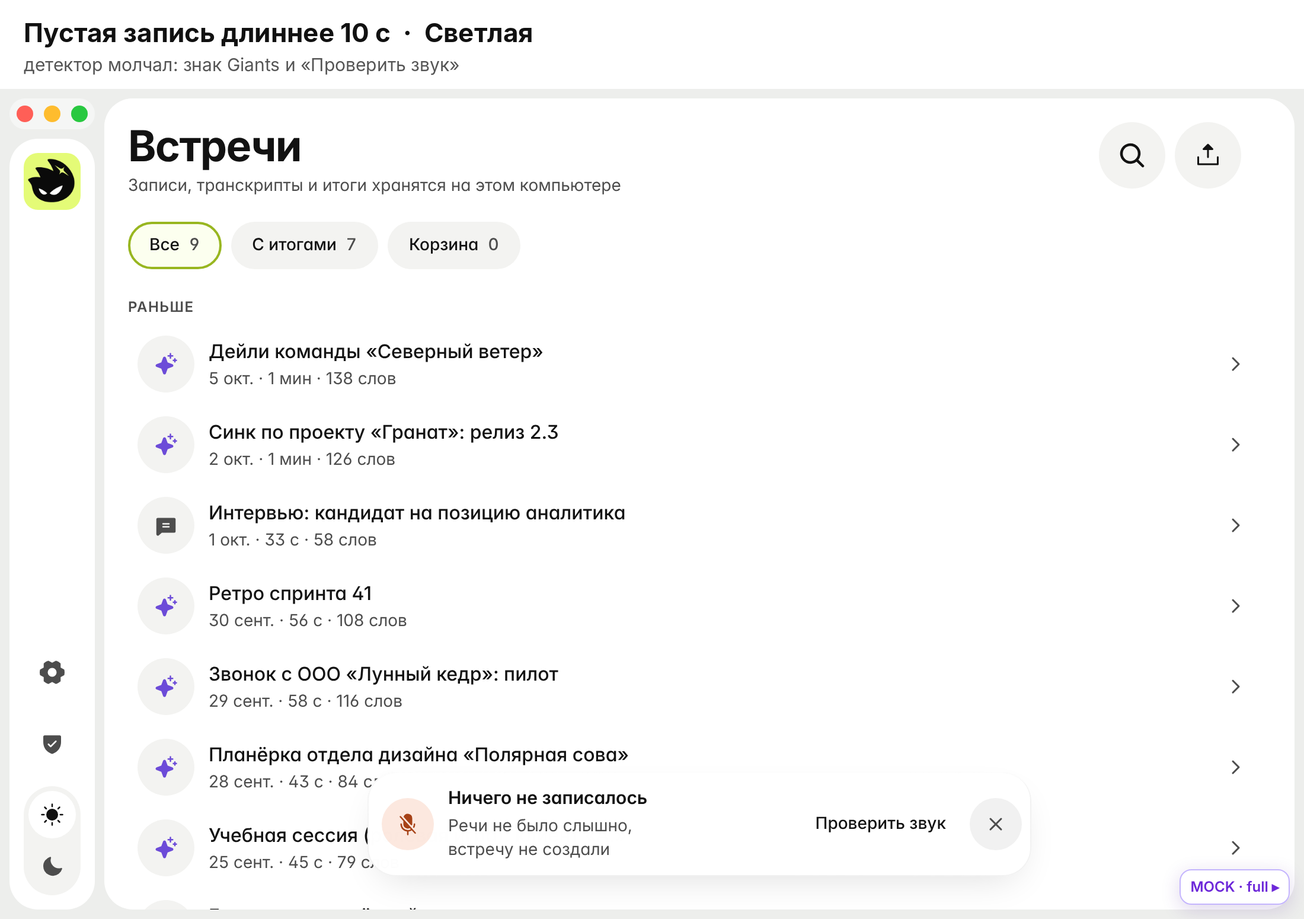
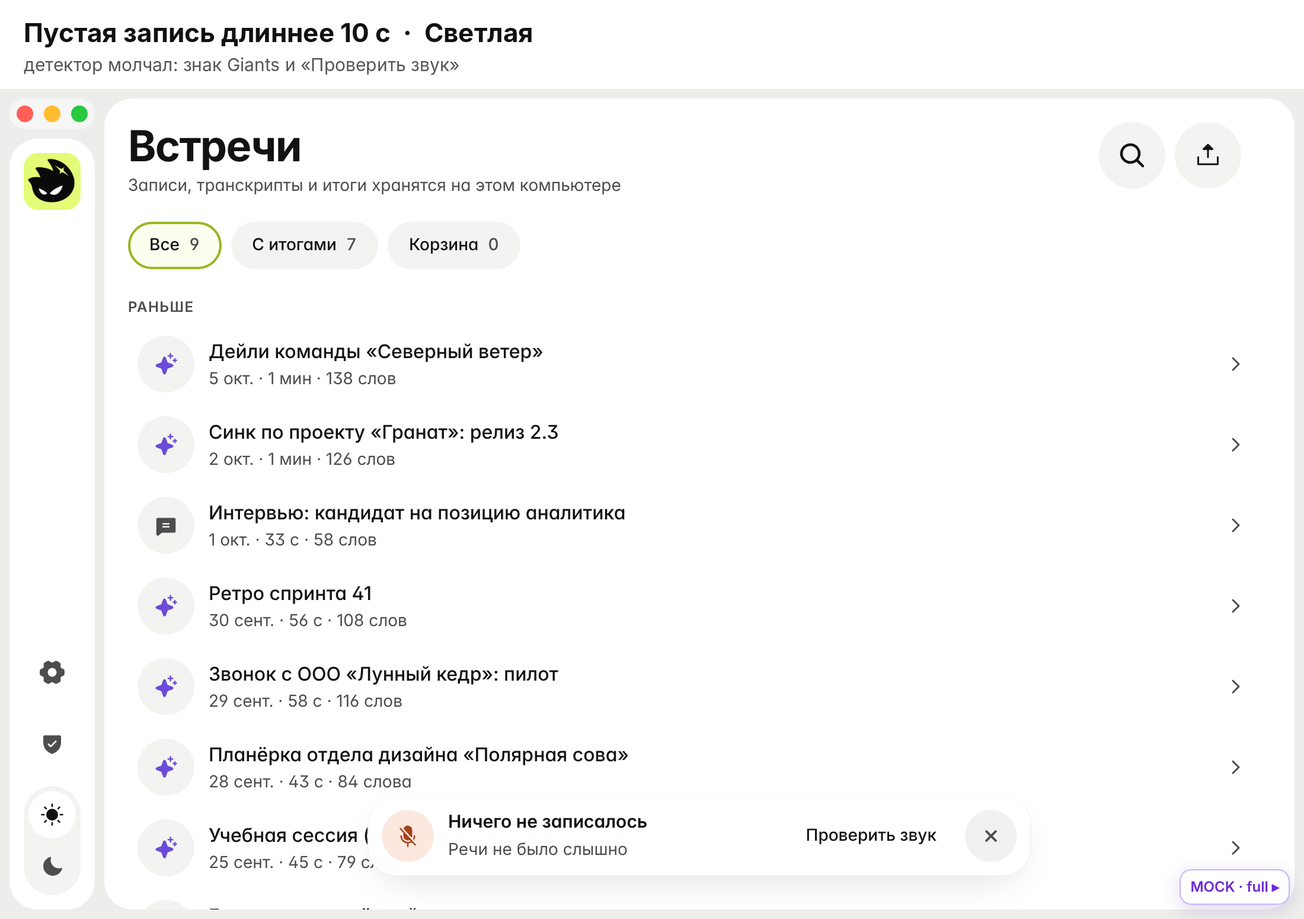
style(aid): один круглый крестик и ровные отступы во всех карточках
- ui/close-button.tsx: общий крестик — круглая кнопка 44 px на лёгкой
  подложке, значок X 14 px серым, bold с чуть более толстым контуром.
- Карточки итога и микрофона, диалоги и уведомления: ровный отступ
  12 px со всех сторон, крестик в углу на том же отступе.
- truncate снова в одну строку: глобальный text-wrap сбрасывал nowrap.
- Подпись «Ничего не записалось» короче: «Речи не было слышно».

Claude-Session: https://claude.ai/code/session_01JzvomxkVSAKv3jjRMmSK11

Changed region(s): [[0.2782, 0.8361, 0.4945, 0.96], [0.6182, 0.8671, 0.7109, 0.929]]

diff --git a/frontend/src/aid/components/RecordDock.tsx b/frontend/src/aid/components/RecordDock.tsx
@@ -21,7 +21,8 @@
 import { Suspense, useEffect, useMemo, useRef, useState } from 'react';
 import Link from 'next/link';
 import { usePathname, useRouter, useSearchParams } from 'next/navigation';
-import { Microphone, MicrophoneSlash, Pause, Play, SpeakerHigh, Stop, Waveform, X } from '@phosphor-icons/react';
+import { Microphone, MicrophoneSlash, Pause, Play, SpeakerHigh, Stop, Waveform } from '@phosphor-icons/react';
+import { CloseButton } from '@/aid/components/ui/close-button';
 import { Button } from '@/aid/components/ui/button';
 import { Spinner } from '@/aid/components/ui/spinner';
 import { Tooltip, TooltipContent, TooltipTrigger } from '@/aid/components/ui/tooltip';
@@ -133,7 +134,7 @@ const COPY = {
  */
 function NoticeCard({ notice }: { notice: DiscardNotice }) {
   return (
-    <div className="aid-glass aid-glass-dense relative w-[min(560px,calc(100vw-8rem))] rounded-tile p-1">
+    <div className="aid-glass aid-glass-dense relative w-[min(560px,calc(100vw-8rem))] rounded-tile p-3">
       <NoticeRow notice={notice} />
     </div>
   );
@@ -172,9 +173,9 @@ function NoticeRow({ notice }: { notice: DiscardNotice }) {
       onPointerLeave={() => hold('hover', false)}
       onFocus={() => hold('focus', true)}
       onBlur={(e) => !e.currentTarget.contains(e.relatedTarget as Node | null) && hold('focus', false)}
-      className="flex w-full min-w-0 items-stretch gap-1"
+      className="flex w-full min-w-0 items-center gap-3"
     >
-      <div className="flex min-h-[60px] min-w-0 flex-1 items-center gap-3 py-2 pl-2 pr-1">
+      <div className="flex min-h-11 min-w-0 flex-1 items-center gap-3">
         {notice.verdict !== 'cancelled' && (
           <span
             className={cn(
@@ -186,7 +187,7 @@ function NoticeRow({ notice }: { notice: DiscardNotice }) {
             {suspectSound ? <MicrophoneSlash /> : <Waveform />}
           </span>
         )}
-        <div className={cn('min-w-0 flex-1', notice.verdict === 'cancelled' && 'pl-2')}>
+        <div className={cn('min-w-0 flex-1', notice.verdict === 'cancelled' && 'pl-1')}>
           <p className="truncate text-[15px] font-semibold leading-5">{t(copy.title)}</p>
           {copy.hint && <p className="mt-1 truncate text-sm leading-5 text-muted-foreground">{t(copy.hint)}</p>}
         </div>
@@ -196,15 +197,8 @@ function NoticeRow({ notice }: { notice: DiscardNotice }) {
           </Button>
         )}
       </div>
-      {/* Крестик: круглая кнопка 44 px по центру по высоте, X bold 16 px серым (залитый нарисован квадратом, CLAUDE.md) */}
-      <button
-        type="button"
-        onClick={notice.dismiss}
-        aria-label={t('close')}
-        className="mr-1 flex size-11 shrink-0 items-center justify-center self-center rounded-full bg-foreground/[0.06] text-muted-foreground transition-colors hover:bg-foreground/[0.12] hover:text-foreground focus-visible:outline-none focus-visible:ring-2 focus-visible:ring-ring"
-      >
-        <X weight="bold" className="size-4" />
-      </button>
+      {/* Крестик: общий CloseButton, на том же отступе 12 px, что и всё содержимое */}
+      <CloseButton label={t('close')} onClick={notice.dismiss} />
       {suspectSound && <SoundCheckDialog open={soundCheck} onOpenChange={setSoundCheck} />}
     </div>
   );

diff --git a/frontend/src/aid/styles/globals.css b/frontend/src/aid/styles/globals.css
@@ -225,7 +225,9 @@
   -webkit-backdrop-filter: blur(28px) saturate(180%);
   backdrop-filter: blur(28px) saturate(180%);
   border-color: hsl(var(--glass-edge));
-  padding: 16px 44px 16px 16px;
+  /* Ровные 12 px со всех сторон; справа место под круглый крестик 44 px (как у всех карточек) */
+  padding: 12px 68px 12px 12px;
+  min-height: 68px;
   align-items: flex-start;
   /* Кнопка действия переносится под текст: рядом с текстом она сжимала его в узкий столбик */
   flex-wrap: wrap;
@@ -266,19 +268,27 @@
 }
 
 :root .aid-toaster [data-sonner-toast][data-styled='true'] [data-close-button] {
+  /* Тот же круглый крестик, что везде (ui/close-button.tsx): 44 px, на отступе 12 px сверху и справа */
   left: auto;
-  right: 10px;
+  right: 12px;
   top: 12px;
   transform: none;
-  width: 24px;
-  height: 24px;
+  width: 44px;
+  height: 44px;
   border: 0;
-  background: transparent;
+  border-radius: 9999px;
+  background: hsl(var(--foreground) / 0.06);
   color: hsl(var(--muted-foreground));
 }
 
+:root .aid-toaster [data-sonner-toast][data-styled='true'] [data-close-button] svg {
+  width: 14px;
+  height: 14px;
+  stroke-width: 3;
+}
+
 .aid-toaster [data-sonner-toast][data-styled='true'] [data-close-button]:hover {
-  background: hsl(var(--muted));
+  background: hsl(var(--foreground) / 0.12);
   color: hsl(var(--foreground));
 }
 
@@ -652,6 +662,20 @@ html body[data-scroll-locked] {
 [data-aid] [role='status'] p,
 .aid-balance {
   text-wrap: balance;
+}
+
+/* truncate — одна строка с многоточием. text-wrap выше сбрасывает nowrap у white-space
+   (это его часть), поэтому строки с truncate переносились; возвращаем одну строку */
+:is(.aid-app, [data-aid]) .truncate.truncate {
+  text-wrap: nowrap;
+}
+
+/* Значок крестика (ui/close-button.tsx): bold с чуть более толстым контуром */
+.aid-close-glyph {
+  stroke: currentColor;
+  stroke-width: 10;
+  stroke-linejoin: round;
+  stroke-linecap: round;
 }
 
 /* Заставка запуска (LaunchScreen): маскот мягко «дышит», три точки бегут волной,

diff --git a/frontend/src/aid/components/ui/close-button.tsx b/frontend/src/aid/components/ui/close-button.tsx
@@ -1,0 +1,28 @@
+// Крестик «Закрыть» один на весь Aid: круглая кнопка 44 px на лёгкой подложке, значок X
+// 14 px серым (bold с чуть более толстым контуром, .aid-close-glyph в globals.css;
+// залитый X в Phosphor нарисован квадратом, CLAUDE.md). Правило отступов: кнопка стоит
+// в углу карточки на том же отступе, что и всё содержимое (сверху, справа, снизу одинаково),
+// карточки с ней — с ровным отступом со всех сторон (p-3, 12 px).
+'use client';
+
+import * as React from 'react';
+import { X } from '@phosphor-icons/react';
+import { cn } from '@/aid/lib/utils';
+
+/** Значок крестика: 14 px, bold с утолщённым контуром. */
+export function CloseGlyph({ className }: { className?: string }) {
+  return <X weight="bold" aria-hidden className={cn('aid-close-glyph size-3.5', className)} />;
+}
+
+/** Классы круглой кнопки: для своих кнопок и для Radix Close. */
+export const CLOSE_BUTTON =
+  'flex size-11 shrink-0 items-center justify-center rounded-full bg-foreground/[0.06] text-muted-foreground transition-colors hover:bg-foreground/[0.12] hover:text-foreground focus-visible:outline-none focus-visible:ring-2 focus-visible:ring-ring disabled:pointer-events-none disabled:opacity-50';
+
+export const CloseButton = React.forwardRef<HTMLButtonElement, React.ButtonHTMLAttributes<HTMLButtonElement> & { label: string }>(
+  ({ className, label, ...props }, ref) => (
+    <button ref={ref} type="button" aria-label={label} className={cn(CLOSE_BUTTON, className)} {...props}>
+      <CloseGlyph />
+    </button>
+  ),
+);
+CloseButton.displayName = 'CloseButton';

diff --git a/frontend/src/aid/components/MicNotices.tsx b/frontend/src/aid/components/MicNotices.tsx
@@ -6,8 +6,9 @@
 //   напоминание «Пишу только звук компьютера». Запись не обрывается.
 'use client';
 
+import { CloseButton as CloseButtonBase } from '@/aid/components/ui/close-button';
 import { useCallback, useEffect, useRef, useState } from 'react';
-import { GearSix, MicrophoneSlash, SpeakerHigh, X } from '@phosphor-icons/react';
+import { GearSix, MicrophoneSlash, SpeakerHigh } from '@phosphor-icons/react';
 import { Button } from '@/aid/components/ui/button';
 import { Spinner } from '@/aid/components/ui/spinner';
 import { SoundCheckDialog } from '@/aid/components/SoundCheck';
@@ -59,7 +60,7 @@ function useWindowReturn(cb: () => void) {
 
 function CardShell({ children, className }: { children: React.ReactNode; className?: string }) {
   return (
-    <div className={cn('aid-glass aid-glass-dense relative w-[min(560px,calc(100vw-8rem))] rounded-tile py-4 pl-4 pr-3', className)}>{children}</div>
+    <div className={cn('aid-glass aid-glass-dense relative w-[min(560px,calc(100vw-8rem))] rounded-tile p-3', className)}>{children}</div>
   );
 }
 
@@ -73,10 +74,8 @@ function Sign({ children }: { children: React.ReactNode }) {
 
 function CloseButton({ onClick }: { onClick: () => void }) {
   return (
-    // Крестик: X в начертании bold (залитый нарисован квадратом, CLAUDE.md)
-    <Button variant="ghost" size="icon" className="size-9 shrink-0 text-muted-foreground hover:bg-muted hover:text-foreground [&_svg]:size-4" onClick={onClick} aria-label={t('close')}>
-      <X weight="bold" />
-    </Button>
+    // Общий круглый крестик (ui/close-button.tsx): в углу на том же отступе 12 px, что и содержимое
+    <CloseButtonBase label={t('close')} onClick={onClick} />
   );
 }
 

diff --git a/frontend/src/aid/components/ui/dialog.tsx b/frontend/src/aid/components/ui/dialog.tsx
@@ -3,7 +3,7 @@
 
 import * as React from 'react';
 import * as DialogPrimitive from '@radix-ui/react-dialog';
-import { X } from '@phosphor-icons/react';
+import { CLOSE_BUTTON, CloseGlyph } from '@/aid/components/ui/close-button';
 import { cn } from '@/aid/lib/utils';
 
 const Dialog = DialogPrimitive.Root;
@@ -28,9 +28,9 @@ const DialogContent = React.forwardRef<
       {...props}
     >
       {children}
-      <DialogPrimitive.Close className="absolute right-4 top-4 flex size-9 items-center justify-center rounded-full text-muted-foreground hover:bg-muted hover:text-foreground focus-visible:outline-none focus-visible:ring-2 focus-visible:ring-ring">
-        {/* bold: залитый X в Phosphor нарисован квадратом (исключение в CLAUDE.md) */}
-        <X weight="bold" className="size-4" />
+      {/* Общий круглый крестик (ui/close-button.tsx): в углу на равном отступе сверху и справа */}
+      <DialogPrimitive.Close className={cn(CLOSE_BUTTON, 'absolute right-3 top-3')}>
+        <CloseGlyph />
         <span className="sr-only">Закрыть</span>
       </DialogPrimitive.Close>
     </DialogPrimitive.Content>
@@ -42,7 +42,7 @@ const DialogTitle = React.forwardRef<
   React.ElementRef<typeof DialogPrimitive.Title>,
   React.ComponentPropsWithoutRef<typeof DialogPrimitive.Title>
 >(({ className, ...props }, ref) => (
-  <DialogPrimitive.Title ref={ref} className={cn('pr-10 text-lg font-semibold leading-tight', className)} {...props} />
+  <DialogPrimitive.Title ref={ref} className={cn('pr-12 text-lg font-semibold leading-tight', className)} {...props} />
 ));
 DialogTitle.displayName = DialogPrimitive.Title.displayName;
 

diff --git a/frontend/src/aid/strings.ts b/frontend/src/aid/strings.ts
@@ -248,7 +248,7 @@ const ru = {
   savedShort: 'Сохранено',
   cancelledNoticeTitle: 'Запись отменена: она была пустой',
   noSpeechNoticeTitle: 'Ничего не записалось',
-  noSpeechNoticeHint: 'Речи не было слышно, встречу не создали',
+  noSpeechNoticeHint: 'Речи не было слышно',
   unrecognizedNoticeTitle: 'Речь не распознана',
   unrecognizedNoticeHint: 'Текста нет, встречу не создали',
   notSavedNotificationBody: 'Речи не было слышно, встречу не создали',

diff --git a/CLAUDE.md b/CLAUDE.md
@@ -18,9 +18,10 @@
 - Контраст текста на цвете проверять по APCA (Lc, модель восприятия контраста; WCAG 2 переоценивает тёмный текст на среднесветлом цвете): текст до 16 px не ниже Lc 75, крупный полужирный (от 18 px 600) не ниже Lc 60. Лайм с текстом `#111` проходит (Lc ≈ 96). Насыщенные Indigo (Lc ≈ 57) и Giants с тёмным текстом для плотного текста не годятся: на них только знаки и крупный полужирный заголовок, а абзацы, списки и подписи на мягком тоне роли (`.aid-role-indigo-soft`: Indigo 60 % с белым, Lc ≈ 75). На цветном фоне текст не приглушать (`muted`, прозрачность) и не делать тоньше 500.
 - Правило двух плиток: на экране не больше двух цветных плиток одновременно. Цветная плитка итогов (Indigo) или «Не распознано» (Giants), и не обе сразу.
 - Типографика: заголовок экрана 36/40 700, заголовок раздела 22/28 700, таймер 32/36 700, текст 15 px, колонка текста до 760 px. Без лесенки: заголовки, подсказки и короткие статусы переносятся ровными строками (`text-wrap: balance`), абзацы без одиноких слов (`pretty`), правило в `globals.css`. Подсказки (`TooltipContent`) в цвете всплывающих панелей темы с обводкой.
+- Крестик «Закрыть» один на весь Aid (`ui/close-button.tsx`: `CloseButton`, `CLOSE_BUTTON`, `CloseGlyph`): круглая кнопка 44 px на лёгкой подложке, значок X 14 px серым, bold с чуть более толстым контуром (`.aid-close-glyph`). Правило отступов: карточка с крестиком с ровным отступом со всех сторон (12 px), крестик в углу на том же отступе сверху и справа (и снизу, если строка одна). Так в карточках итога и микрофона, диалогах и уведомлениях. `truncate` в Aid снова в одну строку (глобальный `text-wrap` сбрасывал `nowrap`).
 - Геометрия бенто: 8 px между плитками и от края окна (`--tile-gap`), 20 px внутри плитки (`--tile-pad`, `TILE` в `Page.tsx`), радиус плитки 24 (`--tile-radius`, `rounded-tile`), вложенного 16 (= плитка минус `--inner-gap` 8, `rounded-nested`), кнопки, поля, чипы и миниатюры таблетками. Контролы 48 px, главные действия 56 px (`size="main"`, иконка 24 px без подложки, `.aid-btn`). Без рамок и декоративных подложек.
 - Каркас (`app/layout.tsx`): слева колонка 72 px: на macOS сверху подложка кнопок окна (`WindowBar`, таблетка 72 × 26 px, цвет между фоном окна и плитками `.aid-window-strip`, `data-tauri-drag-region`; кнопки окна в ней по центру, группа кнопок 60 × 14 pt, со всех сторон по 6 pt: `trafficLightPosition` x 14, y 23), ниже через 8 px сайдбар; колонка страницы справа во всю высоту окна, полосы во всю ширину нет. Подложка видна с классом `aid-titlebar-overlay` (Tauri на macOS, в браузере на заглушках с нарисованными кнопками). Слева сайдбар 72 px отдельной плиткой (`AidSidebar`): сверху логотип ShadeNotes 48 px, как кнопки сайдбара (по 12 px от краёв и сверху, радиус 12 концентрично сайдбару), ведёт к списку встреч (пункта «Встречи» нет, вкладка одна), внизу «Настройки», приватность и переключатель темы таблеткой. Справа контент страницы (`Page`): шапка липкая, при прокрутке становится стеклом; область прокрутки обрезана по радиусу плитки (`.aid-round-clip`), плитки у краёв окна уходят под скругление, а не обрываются. Внизу по центру поверх контента плавает запись (`RecordDock`), снизу у контента запас `--dock-space`, только если контент до капсулы доходит (`data-fits` в `Page`): иначе прокрутки нет. Полоса прокрутки тонкая (бегунок 4 px), видна при прокрутке и наведении, начинается под шапкой и не заходит в скругления. Встреча и настройки открываются на главной (`/?id=…` и `/?view=settings&tab=…` через `history.pushState`, `lib/open-meeting.ts`), без перехода между страницами: в окне Tauri на macOS переход зависал (кнопка «Настройки» казалась ненажимающейся). Переходы на `/meeting-details` и `/settings` переводит на место `lib/in-place-router.tsx`. Новый экран мягко проявляется (`.aid-page-in` в `Page`, 0,24 с). Окно стартует скрытым (`"visible": false` в `tauri.conf.json`) и показывается из `src/aid/lib/window-boot.ts` сразу после разметки заставки (`LaunchScreen`), с фоном темы: без белой вспышки при запуске.
-- Запись (`RecordDock`): в покое круглая кнопка лайм 88 px на 28 px от низа (`--dock-space` 136 px) с микрофоном и двумя мягкими волнами, сочетание ⌘⇧R в подсказке. Во время записи стеклянная капсула: красная точка с кольцом на речь, таймер, полосы речи (по сегментам детектора речи: уровня звука ядро не отдаёт), круглая «Пауза» 56 px и красная «Остановить». «Не слышу речи» стеклянной карточкой над капсулой. После стопа итог карточкой на том же месте (`NoticeCard`): плотное стекло, радиус плитки, всё внутри на 4 px от кромки; знак в круге 44 px слева, одна-две короткие строки, справа круглая кнопка-крестик 44 px по центру по высоте (X bold 16 px серым, темнеет при наведении). Знак Giants и «Проверить звук» только у «Ничего не записалось» (есть основание подозревать звук); «Речь не распознана» с нейтральным знаком; «Запись отменена: она была пустой» тихая, без знака и действий, уходит сама через 3 с. Появляется из размытия, уходит плавно (`.aid-dock-out`, 0,28 с) (в разработке: `?notice=cancelled|no-speech|unrecognized`). Смена состояний появляется из размытия.
+- Запись (`RecordDock`): в покое круглая кнопка лайм 88 px на 28 px от низа (`--dock-space` 136 px) с микрофоном и двумя мягкими волнами, сочетание ⌘⇧R в подсказке. Во время записи стеклянная капсула: красная точка с кольцом на речь, таймер, полосы речи (по сегментам детектора речи: уровня звука ядро не отдаёт), круглая «Пауза» 56 px и красная «Остановить». «Не слышу речи» стеклянной карточкой над капсулой. После стопа итог карточкой на том же месте (`NoticeCard`): плотное стекло, радиус плитки, ровный отступ 12 px со всех сторон; знак в круге 44 px слева, две короткие строки (подпись в одну строку), справа общий крестик. Знак Giants и «Проверить звук» только у «Ничего не записалось» (есть основание подозревать звук); «Речь не распознана» с нейтральным знаком; «Запись отменена: она была пустой» тихая, без знака и действий, уходит сама через 3 с. Появляется из размытия, уходит плавно (`.aid-dock-out`, 0,28 с) (в разработке: `?notice=cancelled|no-speech|unrecognized`). Смена состояний появляется из размытия.
 - Логотип ShadeNotes: чёрный силуэт с белыми глазами и лаймовой искрой на лаймовой плитке (`public/brand/shadenotes.svg` и `shadenotes.png`, тот же рисунок в иконке приложения `src-tauri/icons`). Статичный, без эмоций и анимаций: в сайдбаре 48 px (`BrandMark.tsx`) и на заставке запуска. Лайм логотипа и есть акцент интерфейса (`--primary`). Иконку приложения не менять без просьбы.
 - Первый запуск (`components/onboarding/AidOnboarding.tsx`, показывает `app/layout.tsx` при `NEXT_PUBLIC_UI=aid`; оригинальный мастер для `original`): минималистично, одна плитка до 600 px по центру на фоне окна (внутри 20 px, как у всех плиток, отступы по шкале 8 / 12 / 16 / 20 / 24 / 32, заголовок шага 22/28 кирпичиком: balance, колонка около 30 символов; описания pretty, до 52 символов; «ShadeNotes» и предлоги не отрываются, неразрывный пробел в строках), сверху точки шага, подложка кнопок окна на месте; каждый шаг помещается в окно 1100 × 700. Обе обложки с высотой пропорционально ширине (8:3). Шаги: 1) обложка с живым показом работы (`HelloStep`, цикл 6 с: кнопка «Записать» становится капсулой с таймером, реплики по очереди через 150 мс, их сменяют итоги на мягком тоне Indigo (`.aid-role-indigo-soft`, 15 px 500, Lc ≈ 75), итоговый кадр стоит 1,7 с и гаснет; реплики и капсула одной группой по оптическому центру, около 65 % обложки), логотип, одна строка «Нажмите «Записать», остальное сделает ShadeNotes» и «Начать»; загрузка моделей стартует уже здесь; 2) «Доступ к звуку» (`AccessStep`, только macOS): обложка с показом запроса macOS (стилизованное окно, указатель подходит сбоку по кривой и нажимает «Разрешить»; при доступе стоит «Доступ есть», при отказе стоит окно без указателя), карточки «Микрофон» (обязателен) и «Звук с компьютера», «Продолжить» (неактивная нейтральная, лайм только у активной) и тихая «Позже»; 3) «Почти готово» (`ReadyStep`): прогресс модели распознавания, пропускается, если она скачана. Доступ: `useAccessChecks` («Открыть настройки» с `preferencePane`, при возврате фокуса перепроверка, неизменившийся ответ нейтрально «Проверим при первой записи»). Логика из `useOnboarding()` оригинала. У вызовов ядра предел 8 с (`lib/onboarding.ts`), потом «Продолжить всё равно». В конце без `window.location.reload()`: `completeOnboarding()`, затем `onComplete`, layout заново монтирует провайдеры через `key`, приложение проявляется (`.aid-app-enter`). Смена шагов размытием и сдвигом (`.aid-ob-*`), при `prefers-reduced-motion` без движения, показы стоят на итоговом кадре. Полоски в показе украшение, а не уровень звука.
 - Главная одной плиткой, как в Я.Музыке (`Page`, раскладка tile): шапка («Встречи» 36/40 и серая подпись, справа круглые кнопки 56 px поиска с лупой и импорта аудио, ниже чипы-фильтры Все, С итогами, Корзина (раздела «Не распознано» нет); поле поиска выезжает влево отдельной таблеткой до 280 px, кнопка остаётся на месте, и лупа в ней поворотом превращается в крестик «Закрыть поиск»; чипы остаются; Esc и крестик сворачивают и очищают, пустое поле сворачивается при потере фокуса; обводка фокуса внутри поля) липкая; при прокрутке список уходит под неё: шапка стеклом без рамки, нижний край растворяется полосой 28 px (`.aid-edge-fade`, scroll edge effect Liquid Glass), без линии. Ниже список, строки без вложенных карточек с миниатюрой состояния 48 px; от 1100 px ширины списка две колонки (`@container`). Встреча: плитка-шапка («Назад», действия таблетками, название 36/40, мета подписью и значением), плитка итогов Indigo свёрнута в полосу-заголовок, плитка транскрипта; без текста плитка Giants «Речь не распознана» с действиями. Настройки как главная: одна плитка (`Page`, раскладка tile), плоская липкая шапка («Назад», «Настройки» 36/40, вкладки) со стеклом и затуханием `.aid-edge-fade` при прокрутке; вкладки как фильтры главной (таблетки 40 px на вложенной поверхности, выбранная `.aid-chip-on` и font-medium, невыбранные обычные muted); разделы открытыми группами с заголовком 22/28 через 32 px, управление справа в колонке 200 px. Кнопка записи в покое только на списке встреч: на настройках и на странице встречи её нет (`IdleRecordButton` в `RecordDock`, запас снизу под неё снимается `data-dock-off`); капсула идущей записи и итог показываются везде.
